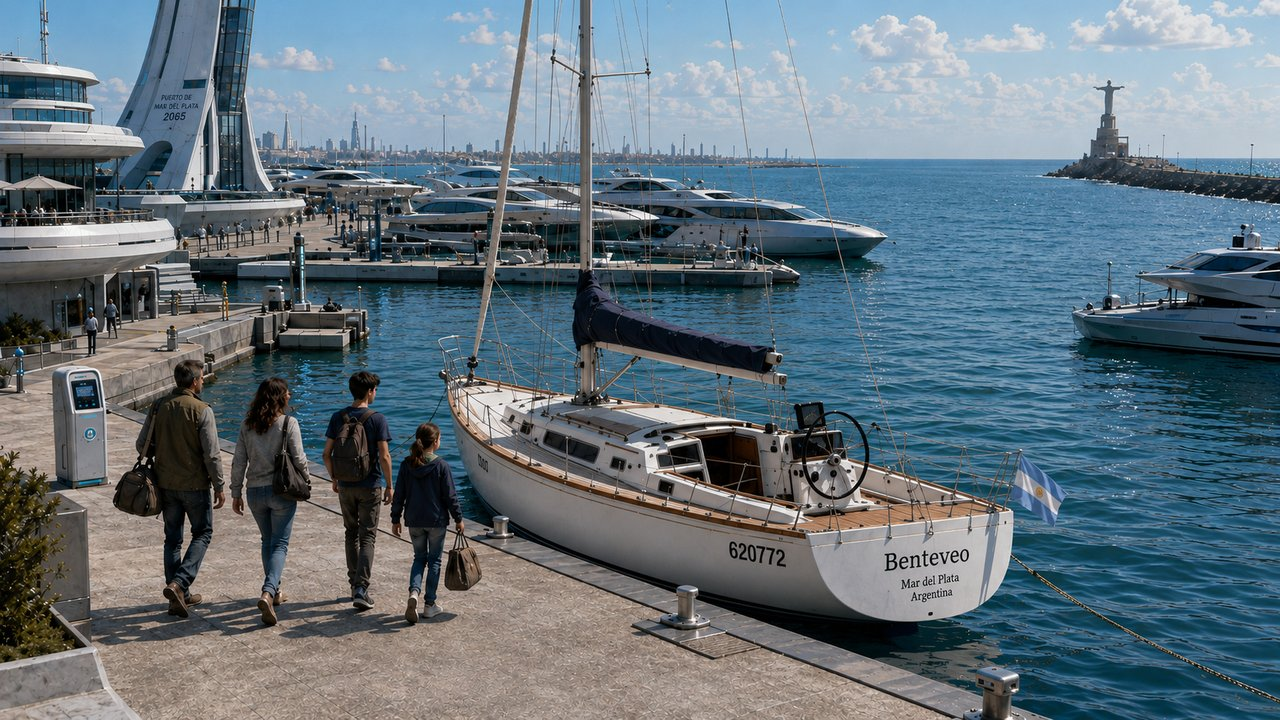
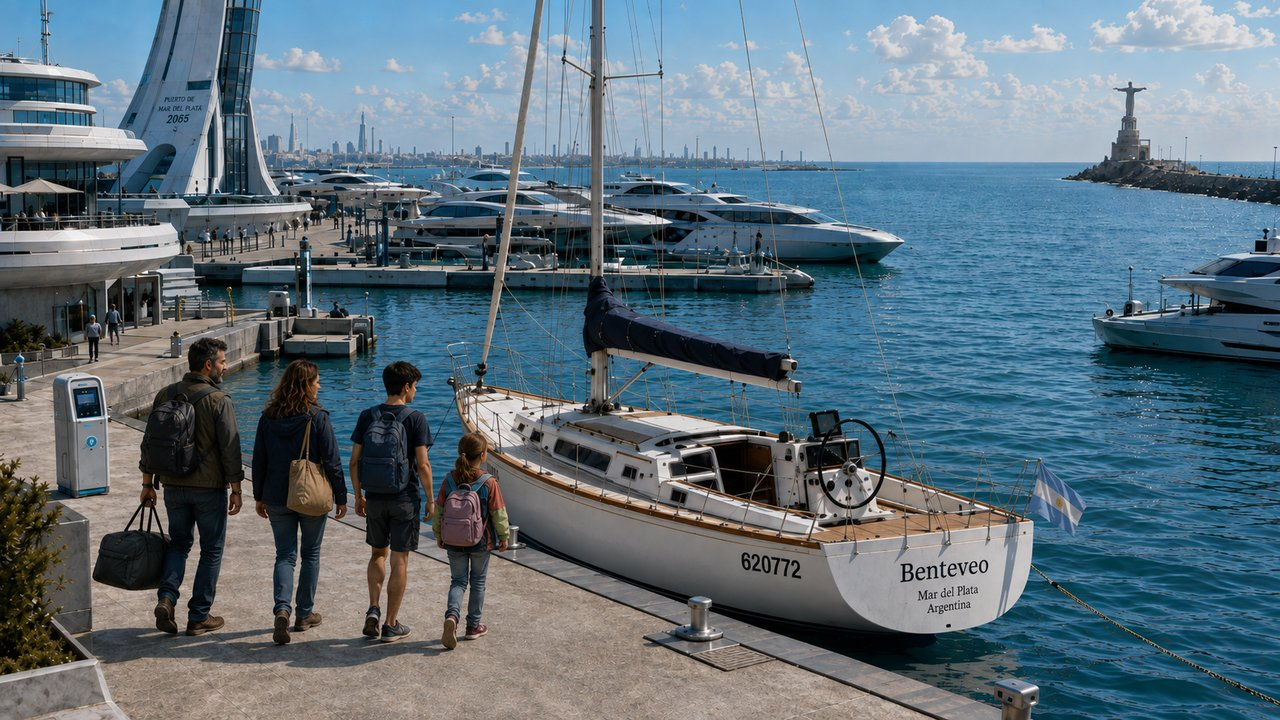
Escena 04 agregada a la galería (el bloqueo); plano 3.1b actualizado

diff --git a/El Eco de las Mareas.html b/El Eco de las Mareas.html
@@ -813,8 +813,19 @@ const TRAILER_GALLERY = [
     title: 'Escena 03 — Zarpando',
     images: [
       {file: 'assets/trailer/plano_3_0.jpg?v=1', label: 'Plano 3.0 — Vista aérea del puerto de Mar del Plata'},
-      {file: 'assets/trailer/plano_3_1b.jpg?v=1', label: 'Plano 3.1b — La familia camina hacia el Benteveo'},
+      {file: 'assets/trailer/plano_3_1b.jpg?v=2', label: 'Plano 3.1b — La familia camina hacia el Benteveo'},
       {file: 'assets/trailer/plano_3_2b.jpg?v=1', label: 'Plano 3.2b — El Benteveo zarpando'}
+    ]
+  },
+  {
+    esc: '04',
+    title: 'Escena 04 — El bloqueo',
+    images: [
+      {file: 'assets/trailer/plano_4_1.jpg?v=1', label: 'Plano 4.1 — Las boyas, tormenta acercándose'},
+      {file: 'assets/trailer/plano_4_2.jpg?v=1', label: 'Plano 4.2 — Tomás al timón, sistema normal'},
+      {file: 'assets/trailer/plano_4_2b.jpg?v=1', label: 'Plano 4.2b — El sistema se bloquea, motor apagado'},
+      {file: 'assets/trailer/plano_4_4.jpg?v=1', label: 'Plano 4.4 — Mateo revisa el sistema eléctrico bajo cubierta'},
+      {file: 'assets/trailer/plano_4_5.jpg?v=1', label: 'Plano 4.5 — El dron de Vortex: "Sistema bloqueado, vuelva a la costa"'}
     ]
   }
 ];

diff --git a/index.html b/index.html
@@ -813,8 +813,19 @@ const TRAILER_GALLERY = [
     title: 'Escena 03 — Zarpando',
     images: [
       {file: 'assets/trailer/plano_3_0.jpg?v=1', label: 'Plano 3.0 — Vista aérea del puerto de Mar del Plata'},
-      {file: 'assets/trailer/plano_3_1b.jpg?v=1', label: 'Plano 3.1b — La familia camina hacia el Benteveo'},
+      {file: 'assets/trailer/plano_3_1b.jpg?v=2', label: 'Plano 3.1b — La familia camina hacia el Benteveo'},
       {file: 'assets/trailer/plano_3_2b.jpg?v=1', label: 'Plano 3.2b — El Benteveo zarpando'}
+    ]
+  },
+  {
+    esc: '04',
+    title: 'Escena 04 — El bloqueo',
+    images: [
+      {file: 'assets/trailer/plano_4_1.jpg?v=1', label: 'Plano 4.1 — Las boyas, tormenta acercándose'},
+      {file: 'assets/trailer/plano_4_2.jpg?v=1', label: 'Plano 4.2 — Tomás al timón, sistema normal'},
+      {file: 'assets/trailer/plano_4_2b.jpg?v=1', label: 'Plano 4.2b — El sistema se bloquea, motor apagado'},
+      {file: 'assets/trailer/plano_4_4.jpg?v=1', label: 'Plano 4.4 — Mateo revisa el sistema eléctrico bajo cubierta'},
+      {file: 'assets/trailer/plano_4_5.jpg?v=1', label: 'Plano 4.5 — El dron de Vortex: "Sistema bloqueado, vuelva a la costa"'}
     ]
   }
 ];
